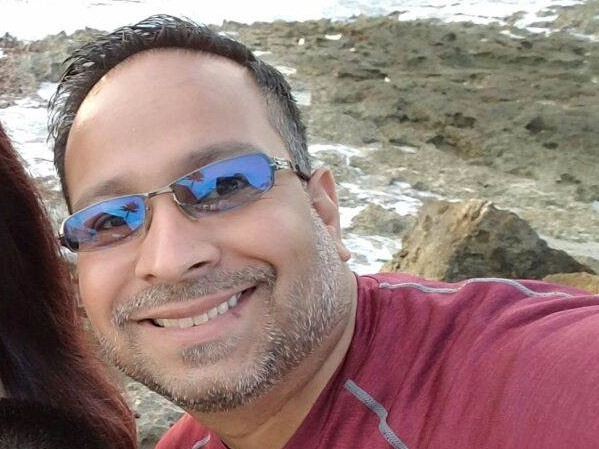
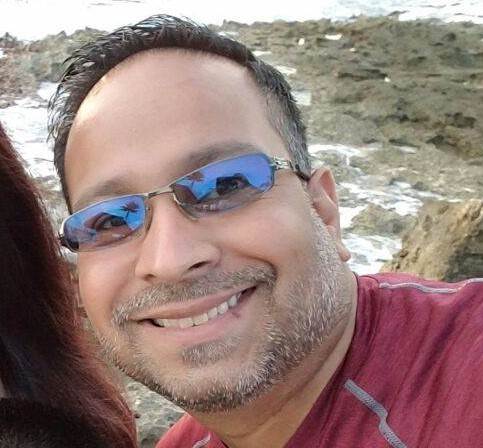
cropped pictures/added groomsmen

diff --git a/index.html b/index.html
@@ -452,7 +452,7 @@ height="0" width="0" style="display:none;visibility:hidden"></iframe></noscript>
                     <div class="keypeoplecircle" data-key="11841">
                 <div class="sectiontitle wedsite-section-subtitle theme_backcolor subhead">Bridesmaids</div>
                                     <div class="keypeopleitem descriptionicon" gid="39946">
-                                                <img class="keypeopleimage" width="82" height="82" alt="Merlyn Abraham " src="img/Bridesmaids/merlyn.jpg"/>
+                                                <img class="keypeopleimage" width="82" height="96" alt="Merlyn Abraham " src="img/Bridesmaids/merlyn.jpg"/>
                                                 <div class="keypeopletext">
                             <div class="keypeopleitemname weddingapp-content-section-title subheadSmall">Merlyn Abraham </div>
                             <div class="keypeopleitemrelation">Maid of Honor</div>
@@ -460,7 +460,7 @@ height="0" width="0" style="display:none;visibility:hidden"></iframe></noscript>
                                                     </div>
                     </div>
                                         <div class="keypeopleitem descriptionicon" gid="39948">
-                                                <img class="keypeopleimage" width="82" height="82" alt="Christie 'Kinde' Joseph " src="img/Bridesmaids/christie.jpg"/>
+                                                <img class="keypeopleimage" width="82" height="96" alt="Christie 'Kinde' Joseph " src="img/Bridesmaids/christie.jpg"/>
                                                 <div class="keypeopletext">
                             <div class="keypeopleitemname weddingapp-content-section-title subheadSmall">Christie 'Kinde' Joseph </div>
                             <div class="keypeopleitemrelation">Maid of Honor</div>
@@ -468,7 +468,7 @@ height="0" width="0" style="display:none;visibility:hidden"></iframe></noscript>
                                                     </div>
                     </div>
                                         <div class="keypeopleitem descriptionicon" gid="39947">
-                                                <img class="keypeopleimage" width="82" height="82" alt="Fiona Edat " src="img/Bridesmaids/fiona.jpg"/>
+                                                <img class="keypeopleimage" width="82" height="96" alt="Fiona Edat " src="img/Bridesmaids/fiona.jpg"/>
                                                 <div class="keypeopletext">
                             <div class="keypeopleitemname weddingapp-content-section-title subheadSmall">Fiona Edat </div>
                             <div class="keypeopleitemrelation">Bridesmaid</div>
@@ -476,7 +476,7 @@ height="0" width="0" style="display:none;visibility:hidden"></iframe></noscript>
                                                     </div>
                     </div>
                                         <div class="keypeopleitem descriptionicon" gid="39949">
-                                                <img class="keypeopleimage" width="82" height="82" alt="Gina George " src="img/Bridesmaids/gina.jpg"/>
+                                                <img class="keypeopleimage" width="82" height="96" alt="Gina George " src="img/Bridesmaids/gina.jpg"/>
                                                 <div class="keypeopletext">
                             <div class="keypeopleitemname weddingapp-content-section-title subheadSmall">Gina George </div>
                             <div class="keypeopleitemrelation">Bridesmaid</div>
@@ -484,7 +484,7 @@ height="0" width="0" style="display:none;visibility:hidden"></iframe></noscript>
                                                     </div>
                     </div>
                                       <div class="keypeopleitem descriptionicon" gid="39950">
-                                              <img class="keypeopleimage" width="82" height="82" alt="Jainy Vathikulam " src="img/Bridesmaids/jainy.jpg"/>
+                                              <img class="keypeopleimage" width="82" height="96" alt="Jainy Vathikulam " src="img/Bridesmaids/jainy.jpg"/>
                                               <div class="keypeopletext">
                           <div class="keypeopleitemname weddingapp-content-section-title subheadSmall">Jainy Vathikulam </div>
                           <div class="keypeopleitemrelation">Bridesmaid</div>
@@ -492,7 +492,7 @@ height="0" width="0" style="display:none;visibility:hidden"></iframe></noscript>
                                                   </div>
                     </div>
                                       <div class="keypeopleitem descriptionicon" gid="39951">
-                                              <img class="keypeopleimage" width="82" height="82" alt="Jisha Jacob " src="img/Bridesmaids/jisha.jpg"/>
+                                              <img class="keypeopleimage" width="82" height="96" alt="Jisha Jacob " src="img/Bridesmaids/jisha.jpg"/>
                                               <div class="keypeopletext">
                           <div class="keypeopleitemname weddingapp-content-section-title subheadSmall">Jisha Jacob </div>
                           <div class="keypeopleitemrelation">Bridesmaid</div>
@@ -504,36 +504,76 @@ height="0" width="0" style="display:none;visibility:hidden"></iframe></noscript>
                         <div class="keypeoplecircle" data-key="11842">
                 <div class="sectiontitle wedsite-section-subtitle theme_backcolor subhead">Groomsmen</div>
                                     <div class="keypeopleitem descriptionicon" gid="39950">
-                                                <img class="keypeopleimage" width="82" height="82" alt="Lucas " src="https://d1bnl7b3m2z9y3.cloudfront.net/image_6422_1429201595_28.jpg"/>
+                                                <img class="keypeopleimage" width="82" height="96" alt="Adil Syed " src="img/Groomsmen/adil.jpg"/>
                                                 <div class="keypeopletext">
-                            <div class="keypeopleitemname weddingapp-content-section-title subheadSmall">Lucas </div>
+                            <div class="keypeopleitemname weddingapp-content-section-title subheadSmall">Adil Syed </div>
                             <div class="keypeopleitemrelation">Best Man</div>
-                                                            <div class="keypeopleitemdescription">Lucas and I have been best buddies since we were kids. I can't think of a more perfect best man.</div>
+                                                            <div class="keypeopleitemdescription">Adil's relation to the groom.</div>
                                                     </div>
                     </div>
                                         <div class="keypeopleitem descriptionicon" gid="39951">
-                                                <img class="keypeopleimage" width="82" height="82" alt="Ethan " src="https://media.appycouple.com/u/qmwg77-u__.jpg"/>
+                                                <img class="keypeopleimage" width="82" height="82" alt="Mohammed Ali " src="img/Groomsmen/mohammed.jpg"/>
                                                 <div class="keypeopletext">
-                            <div class="keypeopleitemname weddingapp-content-section-title subheadSmall">Ethan </div>
+                            <div class="keypeopleitemname weddingapp-content-section-title subheadSmall">Mohammed Ali </div>
                             <div class="keypeopleitemrelation">Groomsman</div>
-                                                            <div class="keypeopleitemdescription">Ethan and I have been co-workers for the past 7 years. He is the definition of a powerhouse and has stuck with me through thick and thin.</div>
+                                                            <div class="keypeopleitemdescription">Mohammed's relation to the groom.</div>
                                                     </div>
                     </div>
                                         <div class="keypeopleitem descriptionicon" gid="39952">
-                                                <img class="keypeopleimage" width="82" height="82" alt="Ryan " src="https://media.appycouple.com/u/-l097a7mzt.jpg"/>
+                                                <img class="keypeopleimage" width="82" height="82" alt="Gian Carnero " src="img/Groomsmen/gian.jpg"/>
                                                 <div class="keypeopletext">
-                            <div class="keypeopleitemname weddingapp-content-section-title subheadSmall">Ryan </div>
+                            <div class="keypeopleitemname weddingapp-content-section-title subheadSmall">Gian Carnero </div>
                             <div class="keypeopleitemrelation">Groomsman</div>
-                                                            <div class="keypeopleitemdescription">Ryan is my cousin on my mom's side. We grew up together and have had fun hanging out throughout the years!</div>
+                                                            <div class="keypeopleitemdescription">Gian's relation to the groom.</div>
                                                     </div>
                     </div>
                                         <div class="keypeopleitem descriptionicon" gid="39953">
-                                                <img class="keypeopleimage" width="82" height="82" alt="Jackson " src="https://d1bnl7b3m2z9y3.cloudfront.net/image_6422_1429201827_62.jpg"/>
+                                                <img class="keypeopleimage" width="82" height="82" alt="Jomy Joseph " src="img/Groomsmen/jomy.jpg"/>
                                                 <div class="keypeopletext">
-                            <div class="keypeopleitemname weddingapp-content-section-title subheadSmall">Jackson </div>
+                            <div class="keypeopleitemname weddingapp-content-section-title subheadSmall">Jomy Joseph </div>
                             <div class="keypeopleitemrelation">Groomsman</div>
-                                                            <div class="keypeopleitemdescription">Jackson has been my best friend since college. We've been through many crazy and wonderful times together.</div>
+                                                            <div class="keypeopleitemdescription">Jomy's relation to the groom.</div>
                                                     </div>
+                    </div>
+                                        <div class="keypeopleitem descriptionicon" gid="39953">
+                                                <img class="keypeopleimage" width="82" height="82" alt="Justin Joseph " src="img/Groomsmen/justin.jpg"/>
+                                                <div class="keypeopletext">
+                            <div class="keypeopleitemname weddingapp-content-section-title subheadSmall">Justin Joseph </div>
+                            <div class="keypeopleitemrelation">Groomsman</div>
+                                                            <div class="keypeopleitemdescription">Justin's relation to the groom.</div>
+                                                    </div>
+                    </div>
+                                      <div class="keypeopleitem descriptionicon" gid="39953">
+                                              <img class="keypeopleimage" width="82" height="82" alt="Jesse Khan " src="img/Groomsmen/jesse.jpg"/>
+                                              <div class="keypeopletext">
+                          <div class="keypeopleitemname weddingapp-content-section-title subheadSmall">Jesse Khan </div>
+                          <div class="keypeopleitemrelation">Groomsman</div>
+                                                          <div class="keypeopleitemdescription">Jesse's relation to the groom.</div>
+                                                  </div>
+                  </div>
+                                      <div class="keypeopleitem descriptionicon" gid="39953">
+                                              <img class="keypeopleimage" width="82" height="82" alt="Hyder Mir " src="img/Groomsmen/hyder.jpg"/>
+                                              <div class="keypeopletext">
+                          <div class="keypeopleitemname weddingapp-content-section-title subheadSmall">Hyder Mir </div>
+                          <div class="keypeopleitemrelation">Groomsman</div>
+                                                          <div class="keypeopleitemdescription">Hyder's relation to the groom.</div>
+                                                  </div>
+                    </div>
+                                      <div class="keypeopleitem descriptionicon" gid="39953">
+                                              <img class="keypeopleimage" width="82" height="82" alt="Sameer Sayed " src="img/Groomsmen/sameer.jpg"/>
+                                              <div class="keypeopletext">
+                          <div class="keypeopleitemname weddingapp-content-section-title subheadSmall">Sameer Sayed </div>
+                          <div class="keypeopleitemrelation">Groomsman</div>
+                                                          <div class="keypeopleitemdescription">Sameer's relation to the groom.</div>
+                                                  </div>
+                    </div>
+                                      <div class="keypeopleitem descriptionicon" gid="39953">
+                                              <img class="keypeopleimage" width="82" height="82" alt="Abdul Syed " src="img/Groomsmen/abdul.jpg"/>
+                                              <div class="keypeopletext">
+                          <div class="keypeopleitemname weddingapp-content-section-title subheadSmall">Abdul Syed </div>
+                          <div class="keypeopleitemrelation">Groomsman</div>
+                                                          <div class="keypeopleitemdescription">Abdul's relation to the groom.</div>
+                                                  </div>
                     </div>
                                 </div>
                 </div>
